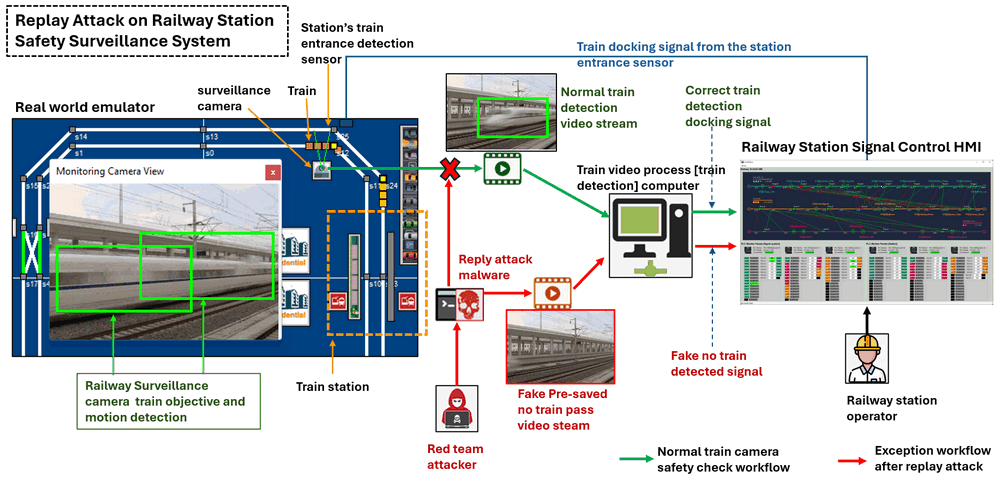
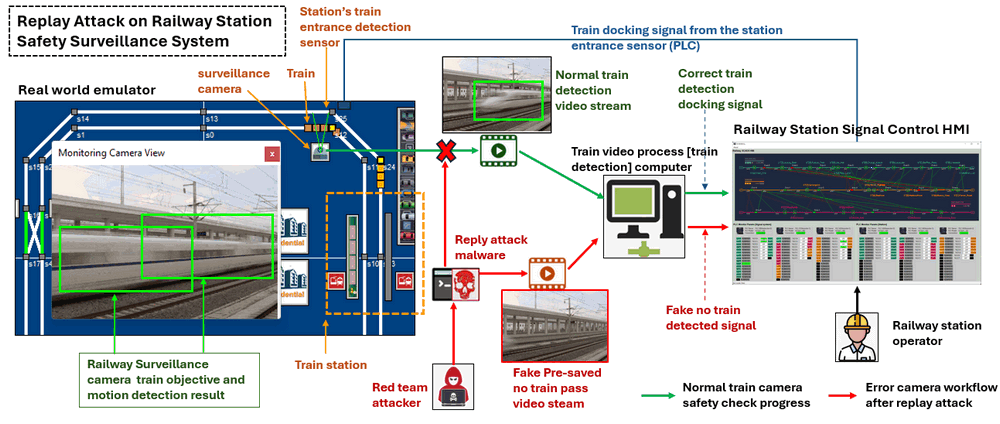
update the readme file.

diff --git a/README.md b/README.md
@@ -1,6 +1,8 @@
-# OT Cyber Attack Case Study [Safety Camera Replay attack and Firmware Attestation]
+# OT Cyber Attack Case Study [ Safety Camera Replay attack and Firmware Attestation ]
 
-**Program Design Purpose**: The objective of this cyber attack case study is aim to develop a workshop using the train detection safety camera system and the dynamic firmware attestation algorithm introduced in paper [PAtt: Physics-based Attestation of Control Systems](https://www.usenix.org/system/files/raid2019-ghaeini.pdf) to illustrate a practical demonstration of replay attack on a safety surveillance camera in railway OT-system. In the attack scenario, the replay attack is a advanced OT system cyber attacker based on a successful camera firmware attack and the station docking area train detection camera in the train surveillance system which used as a double safety mechanism of the train detection sensor.  The attack scenario involves a red team attacker planted a malicious firmware in the train detection camera, capturing video footage from the camera,  replaying then sending it back to station control room to mess up the safety surveillance system and station operator.
+**Program Design Purpose**: The objective of this cyber attack case study is to develop a workshop aimed at showcasing a practical demonstration of a replay attack on a station train docking safety surveillance camera within a railway OT-system. In the attack scenario, the replay attack is executed by a sophisticated cyber attacker within the OT system, exploiting a successful camera firmware attack. Specifically, the attack targets the train detection camera located in the station docking area, which serves as a crucial safety mechanism for the train surveillance system. The scenario involves a red team attacker implanting malicious firmware into the train detection camera, thereby compromising its functionality. This compromised camera is then used to capture video footage, which is subsequently replayed and sent back to the station control room. The goal of this attack is to disrupt the safety surveillance system and deceive the station operator, highlighting the vulnerabilities inherent in OT systems and the potential impact of cyber attacks on critical infrastructure.
+
+The attack progress overview diagram is shown below : 
 
 ![](doc/img/overview.png)
 
@@ -8,45 +10,85 @@
 
 >  Important : The demonstrated attack case is used for education and training for different level of IT-OT cyber security ICS course, please don't apply it on any real world system.
 
+Demo video : https://youtu.be/nTv7dcfjZts?si=h-ptx8jN6Gs1Q1JK
+
+**Table of Contents**
+
 [TOC]
+
+- [OT Cyber Attack Case Study [ Safety Camera Replay attack and Firmware Attestation ]](#ot-cyber-attack-case-study---safety-camera-replay-attack-and-firmware-attestation--)
+    + [Introduction](#introduction)
+      - [Railway OT System Station Docking Assistant System Introduction](#railway-ot-system-station-docking-assistant-system-introduction)
+      - [OT Station Docking Surveillance System Replay Attack Demo](#ot-station-docking-surveillance-system-replay-attack-demo)
+      - [Key Tactics, techniques, and procedures (TTP) of Replay Attack](#key-tactics--techniques--and-procedures--ttp--of-replay-attack)
+    + [Background Knowledge](#background-knowledge)
+      - [Replay Attack](#replay-attack)
+      - [Real Time Streaming Protocol](#real-time-streaming-protocol)
+    + [Project Design](#project-design)
+      - [Design of Railway OT System Station Docking Assistant System](#design-of-railway-ot-system-station-docking-assistant-system)
+      - [Design of Surveillance Camera Replay Attack](#design-of-surveillance-camera-replay-attack)
+    + [Program Setup](#program-setup)
+          + [Development Environment](#development-environment)
+          + [Additional Lib Need](#additional-lib-need)
+          + [Hardware Need](#hardware-need)
+        * [Program File List](#program-file-list)
+    + [Program Usage/Execution](#program-usage-execution)
+        * [Communication Protocol](#communication-protocol)
+        * [Run the Program](#run-the-program)
+    + [Problem and Solution](#problem-and-solution)
+    + [Reference](#reference)
+
+
 
 ------
 
 ### Introduction
 
-This case study aims to develop a train detection surveillance camera which used as a double safety mechanism of the railway station's docking assistant system, then use the platform to demonstrate the potential replay attack impact of the system. This project contains two main sections: 
+This case study aims to create a simplified emulation of the railway train detection surveillance system, which serves as a dual safety mechanism within the train station's docking assistant system. The primary objective is to illustrate the potential impact of a replay attack on the system using this platform. The project comprises two principal sections:
 
-**Railway OT system station docking  assistant system** :  In our railway emulation system, we will develop a mechanism for the railway station operator the control the rail docking in the station. The system contents a double safety check mechanism both use the train position sensor and the train visual detection camera, when any of the 2 sensor detected a train is moving entering a station, it will active the train brake to slow down the train's speed. 
+- **Railway OT System Station Docking Assistant System**: Within our railway emulation setup, we will devise a mechanism enabling station operators to manage rail docking procedures. This system incorporates a dual safety check mechanism utilizing both train position/motion sensors and train visual detection cameras. When either sensor detects a train in motion entering the station, it triggers the activation of the train brakes to reduce the train's speed.
+- **OT System Replay Attack Demo**: This section will demonstrate a scenario where a red team attacker infiltrates the railway system OT network, then attack the docking's dual safety check mechanism through false data injection (FCI) attacks on the train position sensor signal control chain and disrupt the safety camera detection system via camera video replay attack.
 
-**OT system replay attack demo** : this section will demo the red team attacker attack the railway docking double safety check mechanism via false data injection attack to the train position sensor-signal control Chain via false data injection (FCI) attack. Then mess up the safety camera detection system via firmware attack and the replay attack.
+The demonstration leverages the train detection safety camera system, false data injection, camera firmware attack, camera video replay attack and the dynamic firmware attestation algorithm outlined in the paper  [PAtt: Physics-based Attestation of Control Systems](https://www.usenix.org/system/files/raid2019-ghaeini.pdf). 
 
-#### Railway OT system station docking  assistant system 
 
-In our railway OT system at each station, there will be 2 different sensors (position sensor and camera) use detected a train is moving entering a station. The system workflow is shown below: 
+
+#### Railway OT System Station Docking Assistant System Introduction
+
+Within our railway OT system, each station's entrance docking area is equipped with two distinct sensors: 
+
+- One train motion and position detection sensor next to the railway.
+- One train object detection surveillance camera facing to the docking area.
+
+Both two sensors are tasked with detecting a train's movement as it enters the station. The system workflow is depicted in the image below:
 
 ![](doc/img/dockingworkflow.png)
 
-The will be a position sensor and a train motion and object detection camera in the safety surveillance system. When a train is moving forward a station and enter the docking prepare range: 
+ When a train approaches a station and enters the docking preparation zone:
 
-- The position and motion detection sensor which connect to the station control PLC will detect the train and PLC will send the train incoming signal to the station HMI. (As shown in the blue signal part in the work flow diagram)
-- The train objective detection train will send the train passing video the the train detection computer, the computer will use CV object detection algorism to detection the train and calculate the train speed, then send the related information to the HMI.  (As shown in the green signal part in the work flow diagram)
-- The HMI will process both the data from PLC and the train detection computer, check whether the train is slowing down and flow the station docking procedure. If it detected the train speed is higher than the design speed, it will active the train's brake.
-
-
-
-#### OT System Surveillance Camera Replay Attack Demo
-
-As shown in the previous Railway OT system station docking  assistant system introduction workflow, there are 2 safety mechanism train motion detection sensor and train object detection camera. For the motion detection sensor which connect to PLC, the red attacker can modify its sensor state via false data injection attack, but for the train object detection camera, it is hard for hacker to modify the byte data in the video stream via man in the middle attack, so the hacker will implement a firmware attack to the camera to open a "backdoor" of the camera, then do the replay attack under below steps: 
-
-- Do a firmware attack to make the video camera runs a modified firmware with backdoor. 
-- Red team attacker use the camera back door record a video which only contents the railway without a train pass. 
-- When the attacker start the FDI attack on the PLC-HMI part, he also cut off the video steam send from the camera to the train detection camera video process computer , then replay send the pre-saved video recorded in previous step. 
-
-By using the FDI attack on the PLC and replay attack on the camera, the red team attack is able to mess up the station docking  assistant system which makes the station HMI and operator not able to detect the docking train to the station.
+- The position and motion detection sensor, connected to the station control PLC, detects the train's presence, prompting the PLC to dispatch a signal indicating the train's arrival to the station's HMI (depicted in the blue signal section of the workflow diagram).
+- Simultaneously, the train object detection camera streams video footage of the passing train to a dedicated train detection computer. This computer utilizes computer vision (CV) object detection algorithms to identify the train and calculate its speed, subsequently sending this information to the HMI (illustrated in the green signal section of the workflow diagram).
+- The HMI processes data from both the PLC and the train detection computer, assessing whether the train is decelerating and managing the station's operations accordingly.
 
 
 
-#### Key Tactics, techniques, and procedures (TTP) of replay attack
+#### OT Station Docking Surveillance System Replay Attack Demo
+
+The attack demo will focus on compromising the two safety mechanisms: the train motion detection sensor and the train object detection camera.
+
+For the motion detection sensor connected to the PLC, the red team attacker can manipulate its sensor state through a false data injection attack.
+
+For the train object detection camera, it is hard for hacker to modify the byte data in the video stream via man in the middle attack. Instead, the attacker will implement a firmware attack on the camera to establish a "backdoor." Subsequently, the following steps will be executed to conduct the replay attack:
+
+1. Initiate a firmware attack to inject a backdoor into the camera.
+2. Utilize the camera's backdoor to record a video indicating no train detection.
+3. Simultaneously with the false data injection attack on the PLC-HMI part, the attacker will transmit the pre-recorded video to the train detection computer, triggering the replay attack.
+
+By combining the false data injection attack on the PLC and the replay attack on the camera, the red team attacker can disrupt the station docking assistant system, rendering the station HMI and operator unable to detect incoming trains for docking.
+
+
+
+#### Key Tactics, techniques, and procedures (TTP) of Replay Attack
 
 The tactics, techniques, and procedures (TTP) of a surveillance camera replay attack involve several steps that an attacker might take to intercept, manipulate, and replay video footage from a surveillance camera in an OT (Operational Technology) system. 
 
@@ -54,13 +96,13 @@ The tactics, techniques, and procedures (TTP) of a surveillance camera replay at
 
 - **Tactics**: Identify the target surveillance camera or cameras within the OT system.
 - **Techniques**: Gather information about the camera's make and model, location, network configuration, and any existing security measures.
-- **Procedures**: The red team attacker will scan the network service to find the video server host by the camera, based on the camera admin page to find the camera's model then understand some of the camera API. 
+- **Procedures**: The red team attacker will scan the network service to find the RTSP video server host by the camera, based on the camera admin page to find the camera's model then find some of the camera API from online document. 
 
 **Interception and Analysis **: 
 
 - **Tactics**: Monitor the communication between the surveillance camera and the monitoring/recording system.
 - **Tactics**: Capture video footage and associated data packets as they are transmitted over the network.
-- **Procedures**: The red team attacker will analyze the the camera connection client detail to find the connected video process computer to identify the replay attack target. 
+- **Procedures**: The red team attacker will analyze the the camera connection packets detail to find the connected video process computer to identify the replay attack target. 
 
 **Replay**:
 
@@ -74,13 +116,13 @@ The tactics, techniques, and procedures (TTP) of a surveillance camera replay at
 
 ### Background Knowledge
 
-In this section, we will introduce the basic knowledge of the replay attack and the Real Time Streaming Protocol we used to send the camera video to the image CV train detection computer.
+In this section, we will introduce the basic knowledge of Replay Attack and Real Time Streaming Protocol which is used for sending the camera video to the train image CV detection computer.
 
 #### Replay Attack
 
-In the OT System cyber attack, the replay attack is often used to attack the communication channel or control chain which use complex protocol and contents large data flow which is different to use the normal attach method such as  FDI/FCI or MItm. 
+In OT system cyber attacks, the replay attack is frequently employed to target communication channels or control chains that utilize intricate protocols or handle large data flows. This method differs from traditional attack methods such as FDI/FCI (False Data Injection/False Command Injection) or Man-in-the-Middle (MitM) attacks. Instead of directly tampering with data or commands, a replay attack involves intercepting and retransmitting previously captured data packets. This approach can be particularly effective when dealing with complex protocols or high-volume data streams, allowing attackers to exploit vulnerabilities in the communication process without directly altering the transmitted information.
 
-A replay attack is a type of network attack in which an attacker captures a valid network transmission and then retransmit it later. **The main objective is to trick the system into accepting the retransmission of the data as a legitimate one.** Additionally, replay attacks are hazardous because it’s challenging to detect. Furthermore, it can be successful even if the original transmission was encrypted.
+A replay attack is a type of network attack in which an attacker captures a valid network transmission and then retransmit it later. The main objective is to trick the system into accepting the retransmission of the data as a legitimate one. Additionally, replay attacks are hazardous because it’s challenging to detect. Furthermore, it can be successful even if the original transmission was encrypted.
 
 An attacker can lunch a replay attack to gain unauthorized access to systems or networks. Furthermore, a replay attack can disrupt the regular operation of a system by inundating it with repeated requests. An attacker can plan to carry out this attack by intercepting and retransmitting data packets over a network. Additionally, a successful replay attack can be performed by replaying recorded audio or video transmissions.
 
@@ -88,7 +130,7 @@ A simple replay diagram is shown below:
 
 ![](doc/img/replayAttackDiagram.png)
 
-Reference : https://www.baeldung.com/cs/replay-attacks
+>  Reference : https://www.baeldung.com/cs/replay-attacks
 
 A replay attack on a camera in an OT (Operational Technology) system involves capturing video footage from the camera, altering it or replaying it, and then sending it back to deceive the system or its operators. This type of attack can have various implications depending on the specific application of the camera within the OT system. 
 
@@ -100,39 +142,36 @@ To make the replay attack can be easily implemented, the video protocol we use f
 
 The **Real-Time Streaming Protocol** (**RTSP**) is an [application-level](https://en.wikipedia.org/wiki/Application_layer) network [protocol](https://en.wikipedia.org/wiki/Communications_protocol) designed for [multiplexing](https://en.wikipedia.org/wiki/Multiplexing) and [packetizing](https://en.wikipedia.org/wiki/Network_packet#MPEG_packetized_stream) [multimedia](https://en.wikipedia.org/wiki/Multimedia) transport streams (such as [interactive media](https://en.wikipedia.org/wiki/Interactive_media), [video](https://en.wikipedia.org/wiki/Video) and [audio](https://en.wikipedia.org/wiki/Digital_audio)) over a suitable [transport protocol](https://en.wikipedia.org/wiki/Transport_layer). RTSP is used in entertainment and communications systems to control [streaming media](https://en.wikipedia.org/wiki/Streaming_media) [servers](https://en.wikipedia.org/wiki/Web_server). [RealNetworks](https://realnetworks.com/) developed RTSP in 1996, designed to control the entertainment and communication systems in a streaming server RTSP utilizes User Datagram Protocol ([UDP](https://getstream.io/blog/communication-protocols/#understanding-tcp-and-udp)) and Real-time Transport Protocol (RTP). RTSP is the standard [protocol used for streaming video](https://getstream.io/blog/streaming-protocols/) data from IP cameras and supports reliable segmented streaming, enabling users to watch streams while it's still being downloaded. The protocol also provides extensive customization options to help you build your own streaming applications and add new features. The main disadvantage of RTSP is that it isn't widely used for broadcasting multimedia over the Internet.
 
-An example of RTSP in action with the video and audio data being delivered over a separate UDP-based RTP stream is shown below 
+An example of RTSP in action with the video and audio data being delivered over a separate UDP-based RTP stream is shown below :
 
 ![](doc/img/rtsp.gif)
 
 The protocol is used for establishing and controlling media sessions between endpoints. Clients of media servers issue commands such as *play*, *record* and *pause*, to facilitate real-time control of the media streaming from the server to a client ([video on demand](https://en.wikipedia.org/wiki/Video_on_demand)) or from a client to the server. 
 
-Reference 
-
-https://www.informit.com/articles/article.aspx?p=169578&seqNum=3
+> Reference https://www.informit.com/articles/article.aspx?p=169578&seqNum=3
 
 
 
 ------
 
-### System Design 
+### Project Design 
 
-#### Railway OT system station docking  assistant system
+In this section we will introduce how we design the Railway OT system station docking  assistant system and the replay attack detail steps.
 
-The train safety surveillance camera is build by using the raspberry PI3B+ with the camera module. In the real world model, before the railway station under the train slow down distance, there will be 2 thermal reflection sensors which connect to the PLC to detection the train, and next to the sensors, we installed our camera to detect the train. The camera will send the video stream to the video processing computer, our program will use the CV to do the motion and the train object detection.  
+#### Design of Railway OT System Station Docking Assistant System
+
+The train safety surveillance camera is constructed using a Raspberry Pi 3B+ equipped with a camera module. In the physical setup, preceding the designated slow-down zone of the railway station, two thermal reflection sensors are positioned. These sensors are linked to the PLC for train detection purposes. Adjacent to these sensors, our surveillance camera is installed to further detect approaching trains. The camera captures video footage, which is then transmitted to a dedicated video processing computer. Our program utilizes computer vision (CV) algorithms to perform both motion and train object detection.
 
 The position of the camera and the sensor is shown below:
 
 ![](doc/img/surveillanceSysDetail.png)
 
-In the digital twin real world emulator, we did the same config. 
+In our digital twin real-world emulator, we replicate this configuration faithfully. When a train passes through the sensor and camera detection area:
 
-When a train is passing the sensor and camera detection area: 
+- The PLC converts the electrical signal from the sensors into digital format and transmits it to the Human-Machine Interface (HMI). The HMI displays the train detection result and, based on the detection time and train length, calculates the train's speed `speed-val-1`.
+- Simultaneously, the motion detection program running on the camera's video processing computer triggers the train object detection algorithm to confirm the train's passage. Subsequently, it calculates the train's speed `speed-val-2`.
 
-PLC to convert the sensor electrical signal to digital signal and send to the HMI, HMI will show the train detection result and based on the detection time and train length calculate the train speed (speed-val-1). 
-
-The camera video processing computer's  motion detection program will trigger the train object detection algo to confirm the train is passing, then calculate the train speed (speed-val-2)
-
-If any of the 2 speed value speed-val-1and speed-val-2 is higher than the designed train docking speed, the station control HMI will send the train slow down signal to the train. 
+If either of the two speed values (`speed-val-1` and `speed-val-2`) exceeds the designated train docking speed, the station control HMI issues a signal to instruct the train to decelerate.
 
 The detail operation scenario is shown below : 
 
@@ -140,19 +179,19 @@ The detail operation scenario is shown below :
 
  
 
-#### OT System Surveillance Camera Replay Attack Demo Design 
+#### Design of Surveillance Camera Replay Attack 
 
-As shown in the previous Railway OT system station docking  assistant system introduction workflow, there are 2 safety mechanism train motion detection sensor and train object detection camera. For the motion detection sensor which connect to PLC, the red attacker can modify its sensor state via false data injection attack, but for the train object detection camera, it is hard for hacker to modify the byte data in the video stream via man in the middle attack, so the hacker will implement a firmware attack to the camera to open a "backdoor" of the camera, then do the replay attack under below steps: 
+As illustrated in the preceding introduction to the Railway OT system station docking assistant system workflow, two safety mechanisms are in place: the train motion detection sensor and the train object detection camera. Regarding the motion detection sensor connected to the PLC, a malicious actor can alter its state through a false data injection attack. However, manipulating the byte data in the video stream of the train object detection camera via a man-in-the-middle attack proves challenging for hackers. Therefore, the attacker opts to execute a firmware attack on the camera, creating a "backdoor" to facilitate the replay attack, following these steps:
 
-- Do a firmware attack to make the video camera runs a modified firmware with backdoor. 
-- Red team attacker use the camera back door record a video which only contents the railway without a train pass. 
-- When the attacker start the FDI attack on the PLC-HMI part, he also cut off the video steam send from the camera to the train detection camera video process computer , then replay send the pre-saved video recorded in previous step. 
+1. Implement a firmware attack to enable the camera to run modified firmware with a backdoor.
+2. Utilize the camera's backdoor to record a video depicting the railway without a passing train.
+3. Concurrently with the false data injection attack on the PLC-HMI interface, interrupt the video stream transmitted from the camera to the train detection computer. Subsequently, replay the pre-recorded video captured in the previous step.
 
 The detail attack flow is shown below:
 
 ![](doc/img/attackFlow.png)
 
-By using the FDI attack on the PLC and replay attack on the camera, the red team attack is able to mess up the station docking  assistant system which makes the station HMI and operator not able to detect the docking train to the station.
+By employing the false data injection attack on the PLC and the replay attack on the camera, the red team attacker disrupts the station docking assistant system, rendering the station HMI and operator unable to detect approaching trains for docking.
 
 
 
@@ -191,8 +230,6 @@ By using the FDI attack on the PLC and replay attack on the camera, the red team
 Raspberry PI3B+ with Camera module. https://projects.raspberrypi.org/en/projects/getting-started-with-picamera
 
 ![](doc/img/RM_camera.jpg)
-
-
 
 ##### Program File List 
 
@@ -271,4 +308,4 @@ N.A
 
 ------
 
-> Last edit by LiuYuancheng(liu_yuan_cheng@hotmail.com) at 26/03/2020
+> Last edit by LiuYuancheng(liu_yuan_cheng@hotmail.com) at 26/03/2020, , if you have any problem please free to message me.
